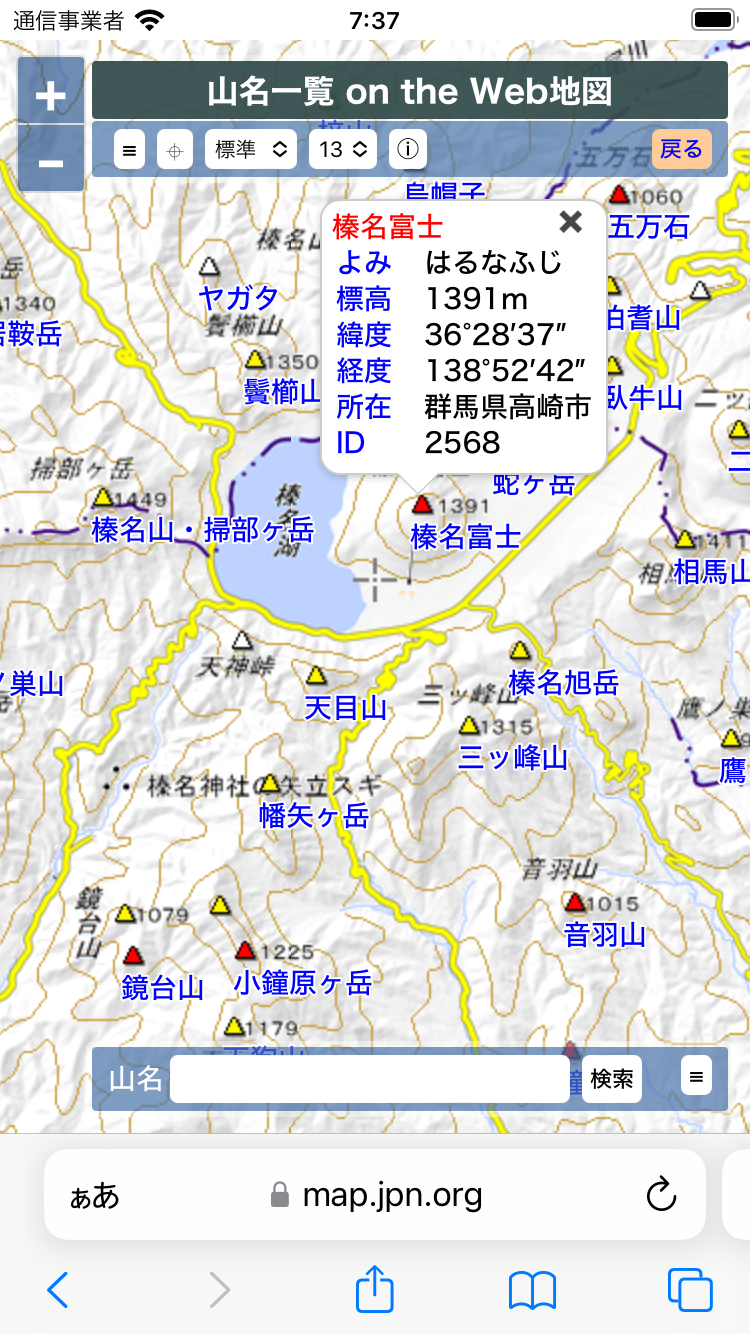
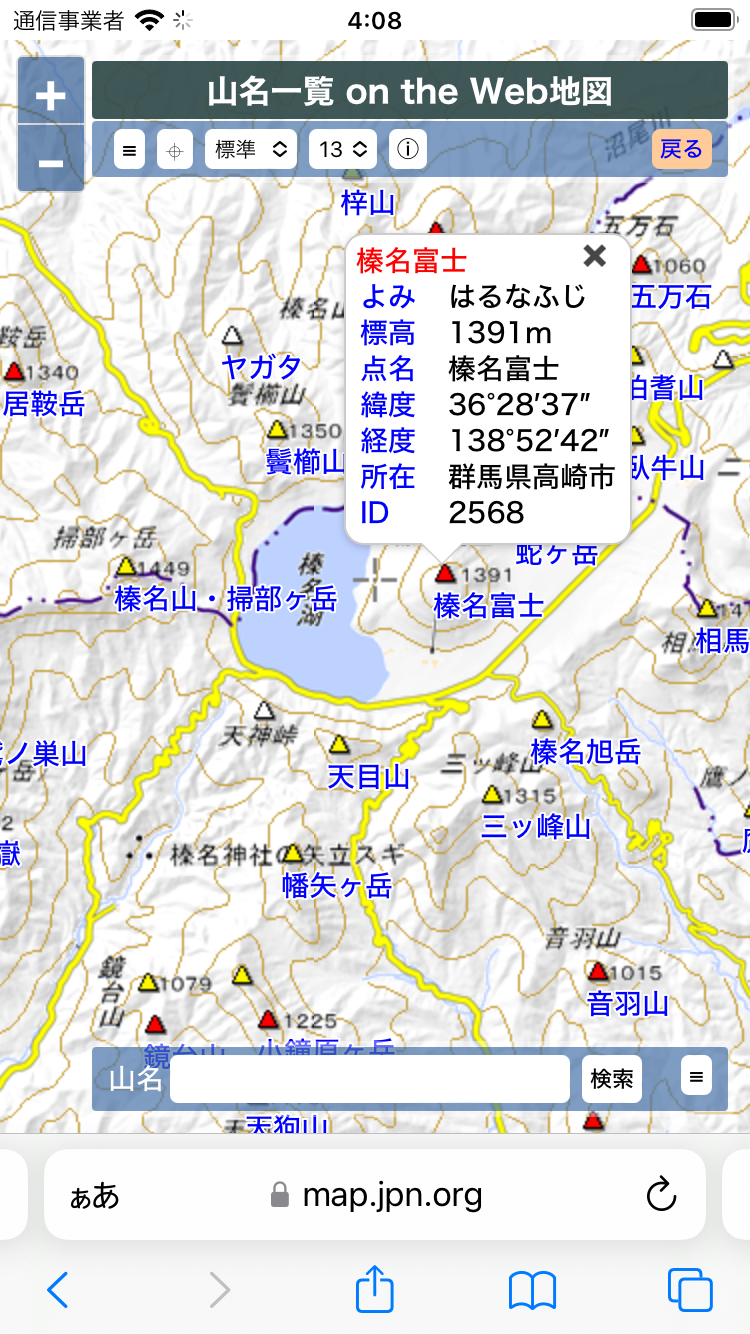
点名表示

diff --git a/docs/mountain/help.html b/docs/mountain/help.html
@@ -33,21 +33,22 @@ figure {
 <body>
 <div id="container">
 <h2>このサイトについて</h2>
-<p>このサイトは、全国の21,000座を越える山の山名、よみがな、標高、緯度、経度をデータベース化し、ウェブ地図上に表示するサイトです。国土地理院2万5千分1地形図、三省堂日本山名事典改訂版に記載されている山を網羅しています。また、書籍やインターネットの情報により、随時、改訂と新しい山の登録を行っています。</p>
+<p>このサイトは、全国の21,000座を越える山の山名、よみがな、標高、緯度、経度をデータベース化し、ウェブ地図上に表示するサイトです。国土地理院2万5千分1地形図と三省堂日本山名事典改訂版に記載されている山を網羅しています。また、書籍やインターネットの情報により、随時、改訂や新規の山の登録を行っています。</p>
 <p>情報の正確性と精度には留意しておりますが、誤りがありましたら<a href="https://map.jpn.org/bbs/">サポート掲示板</a>でお知らせ下さい。未登録の山の情報や、このサイトに関するご意見・ご質問もサポート掲示板へお願いします。</p>
 <h2>ヘルプ</h2>
-<p>例として、本サイトをスマートフォンで表示した場合の画面を図1に示します。PCで表示した場合はレイアウトが変わりますが、操作方法は同様です。地図をスムーズにスクロールしたり、ズームしたり、回転させることができます。PCの場合の回転は、Shift+Altキーとマウス右ボタンを同時に押しながらマウスカーソルを動かして行います。</p>
+<p>例として、本サイトをスマートフォンで表示した場合の画面を図1に示します。PCで表示した場合はレイアウトが変わりますが、操作方法は基本的に同じです。地図をスムーズにスクロールしたり、ズームしたり、回転させることができます。PCの場合の回転は、Shift+Altキーとマウス右ボタンを同時に押しながらマウスカーソルを動かして行います。</p>
 <p>なお、山頂アイコンは、<img src="share/902030.png">が基準点（電子基準点、一等〜四等三角点）、<img src="share/902031.png">が標高点、<img src="share/902029.png">がその他を表します。また、図1にある<span style="color:blue;">榛名山・掃部ヶ岳</span>のような"・"を含む山名は、<span style="color:blue;">総称・ピーク名</span>を表します。総称は原則として山域の最高峰に付記されます。</p>
 <figure>
 <img src="mountain/Fig01.png" srcset="mountain/2x/Fig01.png 2x" width="375" height="667" alt="">
 <figcaption>図1 スマートフォンによる表示例</figcaption>
 </figure>
-<p>青字の山名または山頂アイコンをクリックすると、その山の情報がポップアップで表示されます（図2）。基準点と標高点の場合、表示される標高、緯度、経度は基盤地図情報の基準点と標高点のデータにそれぞれ基づいており、表示桁数の範囲で正確です。ポップアップは右上の ✖ をクリックすると消えます。</p>
+<p>青字の山名または山頂アイコンをクリックすると、その山の情報をポップアップで表示します（図2）。基準点と標高点の場合、表示される標高、緯度、経度は基盤地図情報の基準点と標高点のデータにそれぞれ基づいており、表示桁数の範囲で正確です。また、基準点の場合、点名も表示します。ポップアップは右上の ✖ をクリックすると消えます。</p>
+<p>夫々の</p>
 <figure>
 <img src="mountain/Fig02.png" srcset="mountain/2x/Fig02.png 2x" width="375" height="667" alt="">
 <figcaption>図2 ポップアップの表示</figcaption>
 </figure>
-<p>山名に別名があれば、ポップアップに表示されます（図5）。ポップアップに表示される<span style="color:blue;">所在</span>は、国土数値情報（行政区域）を利用して、<span style="color:blue;">緯度</span>と<span style="color:blue;">経度</span>から都道府県＋市区町村を逆ジオコーディングで求めたものです。</p>
+<p>山名に<span style="color:blue;">別名</span>があれば、ポップアップに表示します（図5）。ポップアップに表示される<span style="color:blue;">所在</span>は、国土数値情報（行政区域）を利用して、<span style="color:blue;">緯度</span>と<span style="color:blue;">経度</span>から都道府県＋市区町村を逆ジオコーディングで求めています。</p>
 <p><span style="color:blue;">ID</span>は、データベースによる管理のため、それぞれの山に一意に割り振られた識別番号（identification number）です。その値はデータベースへの登録順（欠番あり）で、その他の意味は特にありません。</p>
 <p>それぞれのボタンとチェックボックスの機能を、図3で付記した<span style="color:red;">丸数字</span>を用いて説明します。</p>
 <figure>
@@ -69,20 +70,18 @@ figure {
 <figcaption>図4 中心位置のポップアップ</figcaption>
 </figure>
 <h2>山名検索機能</h2>
-<p>"山名"欄に文字列を入力して"検索"ボタンをクリックすると、山名検索が実行されます。検索は、山名、総称、別名に渡って実行されます。検索結果は標高の降順でソートされて表示されます。検索結果の一つをクリックすると、地図の中心位置が選択した山の位置に移動し、ポップアップを表示します（図5）。</p>
+<p>"山名"欄に文字列を入力して"検索"ボタンをクリックすると、山名検索を実行します。検索は、山名、総称、別名に渡って実行されます。検索結果は標高の降順でソートして表示します。検索結果の一つをクリックすると、地図の中心位置が選択した山の位置に移動し、ポップアップを表示します（図5）。</p>
 <figure>
 <img src="mountain/Fig05.png" srcset="mountain/2x/Fig05.png 2x" width="376" height="667" alt="">
 <figcaption>図5 検索結果とポップアップ</figcaption>
 </figure>
 <p>検索文字列には次の特殊文字を含めることができます。いずれも半角文字で入力してください。</p>
-<p><span style="color:blue;">%</span>：山名の先頭または末尾に指定し、任意の文字列を表します。例えば、"<span style="color:blue;">%猫%</span>"で検索すると、漢字の"猫"を含む山名の一覧が表示されます。なお、検索結果の件数の上限は1000で、上限を越えた分は表示されません。<br>
-<span style="color:blue;">＠</span>：山名に続いて指定し、続けて所在を記述すると、所在についての前方一致検索を行なって、検索結果を限定します。例えば、"<span style="color:blue;">%@群馬県桐生市</span>"で検索すれば、群馬県桐生市にある山の一覧が表示されます。ただし、行政区域の境界にある山は、検索結果に含まれない場合があるので注意が必要です。</p>
+<p><span style="color:blue;">%</span>：山名の先頭や末尾に指定し、任意の文字列を表します。例えば、"<span style="color:blue;">%猫%</span>"で検索すると、漢字の"猫"を含む山名の一覧を表示します。なお、検索結果の件数の上限は1000で、上限を越えた分は表示しません。<br>
+<span style="color:blue;">＠</span>：山名に続いて指定し、続けて所在を記述すると、所在についての前方一致検索を行なって、検索結果を限定します。例えば、"<span style="color:blue;">%@群馬県桐生市</span>"で検索すれば、群馬県桐生市にある山の一覧を表示します。</p>
 <p>その他、検索文字列を数値とすると、数値に一致するIDをもつ山を検索します。特に"<span style="color:blue;">0</span>"で検索すると、最も大きなIDから100件を表示します。これはデータベースに新規に登録した山の確認に用いています。</p>
-<p>［保存］を実行すると、検索結果をCSVファイルでダウンロードできます。CSVファイル内の文字コードはUTF-8、緯度、経度はDEG形式（10進表記）です。</p>
+<p>"保存"ボタンをクリックすると、検索結果をCSVファイルでダウンロードできます。CSVファイル内の文字コードはUTF-8、緯度、経度はDEG形式（10進表記）です。</p>
 <h2>クレジット表記</h2>
-<p>この地図の作成にあたっては、国土地理院長の承認を得て、同院発行の数値地図25000
-（地名・公共施設）を使用した。
-（承認番号 平29情使、第1007号）</p>
+<p>この地図の作成にあたっては、国土地理院長の承認を得て、同院発行の数値地図25000（地名・公共施設）を使用した。（承認番号 平29情使、第1007号）</p>
 <p>また、使用しているタイル画像のクレジットは次の表のとおり。</p>
 <table class="base">
 <thead><tr><th>ベースマップ</th><th>クレジット</th></tr></thead>
